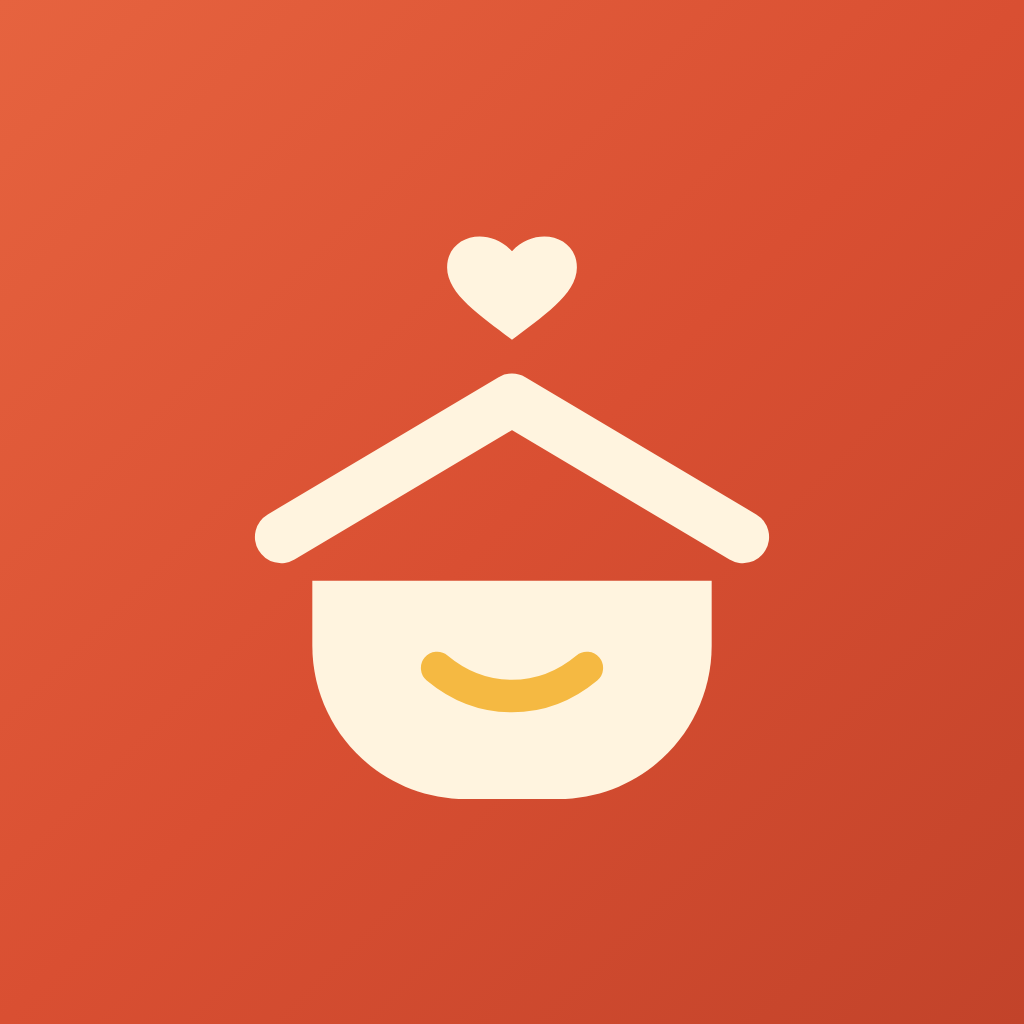
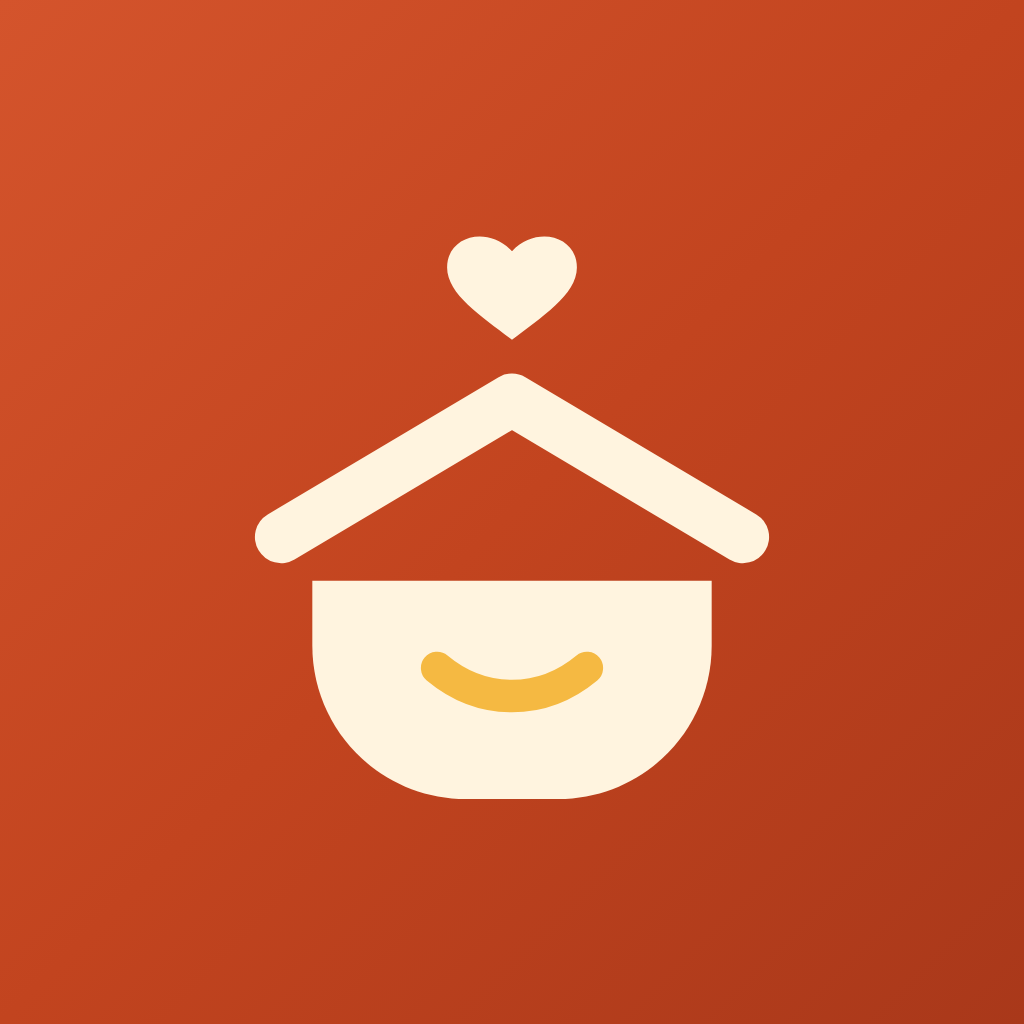
White background, deeper orange primary
Claude-Session: https://claude.ai/code/session_01BWdZgeSNgUMx6aBKecGr3i

Changed region(s): [[0.5625, 0.5625, 1.0, 1.0]]

diff --git a/app/src/theme.ts b/app/src/theme.ts
@@ -1,22 +1,21 @@
 import { Platform } from 'react-native';
 
 export const C = {
-  // Surfaces: warm cream canvas (#FFF4DF), crisp white cards, hairline borders
-  bg: '#FFF4DF', surface: '#FFFFFF', surface2: '#FBEEDA', sunken: '#F5E6CC', card: '#FFFAF2',
-  // Ink: deep warm charcoal, never pure black
-  text: '#24170F', text2: '#5A463A', muted: '#8E7A6B', line: '#F2E4CB', line2: '#E8D6B8',
+  // Surfaces: clean white canvas, white cards with hairline borders, warm grey fills
+  bg: '#FFFFFF', surface: '#FFFFFF', surface2: '#F7F3EF', sunken: '#EFE9E2', card: '#FFFFFF',
+  text: '#21160F', text2: '#584538', muted: '#8C7A6C', line: '#EEE7DF', line2: '#E2D8CC',
   // Mango: the accent — ratings, highlights, small badges. Text on it is dark.
   turmeric: '#F5B942', turmericDeep: '#D99A1E', turmericSoft: '#FDEFD0', onTurmeric: '#4A2E0A',
-  // Paprika: the MaaCrave primary — buttons, links, active states.
-  brand: '#D94F32', brand2: '#E2603F', brandHi: '#EE7A57', brandDark: '#B53E25', brandDeep: '#7F2A18', brandSoft: '#FCE4D9', brandText: '#B83F26',
+  // Deep orange (paprika): the MaaCrave primary — buttons, links, active states.
+  brand: '#C2441F', brand2: '#D0532C', brandHi: '#EE7A57', brandDark: '#A3361A', brandDeep: '#7F2A18', brandSoft: '#FBE6DC', brandText: '#A83A1C',
   ink: '#24170F', onInk: '#FFFFFF',
   ok: '#1E7F4F', okSoft: '#E8F5EE', warn: '#9A6200', warnSoft: '#FDF4E1', err: '#C62828', errSoft: '#FDECEC', info: '#2552C9', infoSoft: '#EDF2FE',
   star: '#F5B942', gold: '#F5B942',
 };
 /** Paprika — primary surfaces: buttons, the logo tile, hero banners. Text on it is white. */
-export const GLOSS = ['#E6633F', '#D94F32', '#C2432A'] as const;
+export const GLOSS = ['#D4542C', '#C2441F', '#A9381A'] as const;
 /** Deep paprika, for avatars and small solid accents that carry white text. */
-export const MAROON = ['#E06844', '#C9472C', '#A83A22'] as const;
+export const MAROON = ['#CF5129', '#B23C1C', '#922F15'] as const;
 /** Text and icons placed on paprika. */
 export const ON_GLOSS = '#FFFFFF';
 export const ON_GLOSS_SOFT = 'rgba(255,255,255,0.84)';

diff --git a/admin/styles.css b/admin/styles.css
@@ -1,10 +1,10 @@
 :root {
-  --bg: #FFF4DF; --surface: #FFFFFF; --card: #FFFAF2; --sunken: #F5E6CC;
-  --text: #24170F; --text2: #5A463A; --muted: #8E7A6B; --line: #F2E4CB; --line2: #E8D6B8;
-  --brand: #D94F32; --brand2: #E2603F; --brand-dark: #B53E25; --brand-soft: #FCE4D9; --turmeric: #F5B942; --on-turmeric: #FFFFFF;
+  --bg: #FFFFFF; --surface: #FFFFFF; --card: #FFFFFF; --sunken: #EFE9E2;
+  --text: #24170F; --text2: #5A463A; --muted: #8E7A6B; --line: #EEE7DF; --line2: #E2D8CC;
+  --brand: #C2441F; --brand2: #D0532C; --brand-dark: #A3361A; --brand-soft: #FBE6DC; --turmeric: #F5B942; --on-turmeric: #FFFFFF;
   --ok: #1E7F4F; --ok-soft: #E8F5EE; --warn: #9A6200; --warn-soft: #FDF4E1; --err: #C62828; --err-soft: #FDECEC; --info: #2552C9; --info-soft: #EDF2FE;
   --ink: #24170F;
-  --gloss: linear-gradient(135deg, #E6633F, #D94F32 50%, #C2432A);
+  --gloss: linear-gradient(135deg, #D4542C, #C2441F 50%, #A9381A);
   --shadow: 0 10px 30px -16px rgba(90, 42, 20, .2);
   --r: 16px;
   --display: 'Bricolage Grotesque', system-ui, sans-serif;
@@ -58,7 +58,7 @@ main { padding: 28px 32px 60px; max-width: 1240px; width: 100%; }
 .tab { border: 0; background: none; padding: 7px 16px; border-radius: 999px; font-weight: 600; color: var(--text2); }
 .tab.on { background: var(--ink); color: #fff; }
 .btn { border: 0; border-radius: 999px; padding: 10px 18px; font-weight: 700; display: inline-flex; align-items: center; gap: 8px; }
-.btn.primary { background: var(--gloss); color: var(--on-turmeric); box-shadow: 0 10px 20px -10px rgba(217,79,50,.5); }
+.btn.primary { background: var(--gloss); color: var(--on-turmeric); box-shadow: 0 10px 20px -10px rgba(194,68,31,.5); }
 .btn.ok { background: var(--ok); color: #fff; }
 .btn.danger { background: var(--err-soft); color: var(--err); }
 .btn.ghost { background: var(--card); color: var(--text); border: 1px solid var(--line2); }

diff --git a/app/app/_layout.tsx b/app/app/_layout.tsx
@@ -23,11 +23,11 @@ export function ErrorBoundary({ retry }: ErrorBoundaryProps) {
     <View style={{ flex: 1, alignItems: 'center', justifyContent: 'center', padding: 32, backgroundColor: '#FFFFFF', gap: 12 }}>
       <Text style={{ fontSize: 22, fontWeight: '800', color: '#1D1617', textAlign: 'center' }}>Something went wrong</Text>
       <Text style={{ fontSize: 15, color: '#5C5253', textAlign: 'center' }}>কিছু একটা সমস্যা হয়েছে। আবার চেষ্টা করুন।</Text>
-      <Pressable onPress={() => retry()} style={{ marginTop: 8, backgroundColor: '#D94F32', borderRadius: 999, paddingHorizontal: 28, paddingVertical: 14 }}>
+      <Pressable onPress={() => retry()} style={{ marginTop: 8, backgroundColor: '#C2441F', borderRadius: 999, paddingHorizontal: 28, paddingVertical: 14 }}>
         <Text style={{ color: '#FFFFFF', fontWeight: '700', fontSize: 15 }}>Try again · আবার চেষ্টা</Text>
       </Pressable>
       <Pressable onPress={() => { router.replace('/'); retry(); }} style={{ padding: 10 }}>
-        <Text style={{ color: '#D94F32', fontWeight: '600' }}>Go home · হোমে যান</Text>
+        <Text style={{ color: '#C2441F', fontWeight: '600' }}>Go home · হোমে যান</Text>
       </Pressable>
     </View>
   );

diff --git a/app/app/(tabs)/index.tsx b/app/app/(tabs)/index.tsx
@@ -84,7 +84,7 @@ export default function Home() {
       <Row gap={S.md} style={{ marginTop: S.md, alignItems: 'stretch' }}>
         {/* Order now: white card with a fine mango-to-paprika outline */}
         <Tap onPress={() => router.push('/browse')} scale={0.97} style={{ flex: 1, borderRadius: R.xl, ...(shadow as object) }}>
-          <LinearGradient colors={['#F5B942', '#FCE4D9', '#D94F32']} start={{ x: 0, y: 0 }} end={{ x: 1, y: 1 }} style={{ flex: 1, borderRadius: R.xl, padding: 1 }}>
+          <LinearGradient colors={['#F5B942', '#FBE6DC', '#C2441F']} start={{ x: 0, y: 0 }} end={{ x: 1, y: 1 }} style={{ flex: 1, borderRadius: R.xl, padding: 1 }}>
             <View style={{ flex: 1, borderRadius: R.xl - 1, backgroundColor: '#fff', padding: S.md, gap: S.sm }}>
               <View style={{ width: 40, height: 40, borderRadius: 20, backgroundColor: C.brandSoft, alignItems: 'center', justifyContent: 'center' }}><UtensilsCrossed size={19} color={C.brand} /></View>
               <View><T v="card" style={{ fontSize: 15 }}>Order now</T><T v="meta" numberOfLines={2}>Ready dishes cooking today</T></View>

diff --git a/app/app/+html.tsx b/app/app/+html.tsx
@@ -11,11 +11,11 @@ export default function Root({ children }: PropsWithChildren) {
         <meta name="viewport" content="width=device-width, initial-scale=1, viewport-fit=cover" />
         <title>MaaCrave — Homemade food from verified mothers</title>
         <meta name="description" content="Order fresh homemade meals from verified home cooks in Dhaka. Request any dish, join group orders and pay with bKash, card or cash." />
-        <meta name="theme-color" content="#FFF4DF" />
+        <meta name="theme-color" content="#FFFFFF" />
         <meta property="og:title" content="MaaCrave — Homemade food from verified mothers" />
         <meta property="og:description" content="Fresh home cooking from verified mothers near you in Dhaka." />
         <ScrollViewStyleReset />
-        <style dangerouslySetInnerHTML={{ __html: 'html,body{background:#FFF4DF;-webkit-font-smoothing:antialiased}' }} />
+        <style dangerouslySetInnerHTML={{ __html: 'html,body{background:#FFFFFF;-webkit-font-smoothing:antialiased}' }} />
       </head>
       <body>{children}</body>
     </html>

diff --git a/app/app/festival/[id].tsx b/app/app/festival/[id].tsx
@@ -28,7 +28,7 @@ export default function FestivalScreen() {
       {q.isLoading ? <Loading /> : q.error || !f ? <ErrorState error={q.error} onRetry={q.refetch} /> : (
         <View style={{ gap: S.lg, marginTop: S.sm, marginBottom: S.lg }}>
           <View style={{ borderRadius: R.xl, overflow: 'hidden', backgroundColor: C.surface, borderWidth: 1, borderColor: C.line }}>
-            <LinearGradient colors={['#F5B942', '#D94F32']} start={{ x: 0, y: 0 }} end={{ x: 1, y: 0 }} style={{ height: 3 }} />
+            <LinearGradient colors={['#F5B942', '#C2441F']} start={{ x: 0, y: 0 }} end={{ x: 1, y: 0 }} style={{ height: 3 }} />
             <View pointerEvents="none" style={{ position: 'absolute', right: -70, top: -70, width: 210, height: 210, borderRadius: 105, backgroundColor: C.turmericSoft }} />
             <View style={{ padding: S.xl, gap: S.md, alignItems: 'center' }}>
               <View style={{ width: 52, height: 52, borderRadius: 26, backgroundColor: C.brandSoft, alignItems: 'center', justifyContent: 'center' }}><PartyPopper size={24} color={C.brand} /></View>

diff --git a/app/src/ui/maa.tsx b/app/src/ui/maa.tsx
@@ -97,7 +97,7 @@ export function MotherOfWeek({ c }: { c: NonNullable<HomeData['featured']> }) {
   return (
     <Tap onPress={() => router.push(`/cook/${c.id}`)} scale={0.99} style={{ borderRadius: R.xl, backgroundColor: C.surface, borderWidth: 1, borderColor: C.line, overflow: 'hidden', ...(shadow as object) }}>
       {/* fine mango-to-paprika line along the top */}
-      <LinearGradient colors={['#F5B942', '#D94F32']} start={{ x: 0, y: 0 }} end={{ x: 1, y: 0 }} style={{ height: 3 }} />
+      <LinearGradient colors={['#F5B942', '#C2441F']} start={{ x: 0, y: 0 }} end={{ x: 1, y: 0 }} style={{ height: 3 }} />
       <View style={{ padding: S.lg, gap: S.lg }}>
         <Row style={{ justifyContent: 'space-between' }}>
           <Row gap={6}><Star size={13} color={C.turmeric} fill={C.turmeric} /><Eyebrow>{t('Mother of the week', 'এই সপ্তাহের মা')}</Eyebrow></Row>

diff --git a/app/src/ui/spotlight.tsx b/app/src/ui/spotlight.tsx
@@ -20,7 +20,7 @@ const ICONS: Record<string, LucideIcon> = {
   users: Users, gift: Gift, heart: Heart, utensils: UtensilsCrossed, request: MessageSquarePlus, percent: Percent, coffee: Coffee,
 };
 const THEMES: Record<string, readonly [string, string, string]> = {
-  crimson: ['#E6633F', '#D94F32', '#B53E25'],
+  crimson: ['#D4542C', '#C2441F', '#A3361A'],
   saffron: ['#F4A12E', '#E07B12', '#B85A07'],
   forest: ['#3BA06A', '#1E7F4F', '#145C38'],
   night: ['#3A2A4F', '#261B36', '#16101F'],
@@ -78,7 +78,7 @@ function Scene({ kind, Icon, color, size }: { kind: string; Icon: LucideIcon; co
   );
 }
 
-const FRAME = '#D94F32';
+const FRAME = '#C2441F';
 
 /** Gentle zoom-and-drift on the picture (the "Ken Burns" effect). */
 function Drift({ children }: { children: React.ReactNode }) {

diff --git a/app/app/cook/[id].tsx b/app/app/cook/[id].tsx
@@ -35,7 +35,7 @@ export default function CookScreen() {
         <>
           {/* hero: clean white card, her portrait in a mango ring */}
           <View style={{ marginTop: S.sm, borderRadius: R.xl, backgroundColor: C.surface, borderWidth: 1, borderColor: C.line, overflow: 'hidden', ...(shadow as object) }}>
-            <LinearGradient colors={['#F5B942', '#D94F32']} start={{ x: 0, y: 0 }} end={{ x: 1, y: 0 }} style={{ height: 3 }} />
+            <LinearGradient colors={['#F5B942', '#C2441F']} start={{ x: 0, y: 0 }} end={{ x: 1, y: 0 }} style={{ height: 3 }} />
             <View style={{ padding: S.lg, gap: S.md, alignItems: 'center' }}>
               <MotherPhoto c={c} size={92} />
               <View style={{ alignItems: 'center', gap: 4 }}>

diff --git a/app/src/ui/intro.tsx b/app/src/ui/intro.tsx
@@ -4,7 +4,7 @@ import { Animated, Easing, Platform, StyleSheet, Text, View } from 'react-native
 import { C, F, GLOSS, ON_GLOSS } from '../theme';
 import { Logo } from './logo';
 
-/** Paprika launch screen (matches the native splash colour #D94F32). */
+/** Paprika launch screen (matches the native splash colour #C2441F). */
 const INTRO = GLOSS;
 /** Never keep people on the intro longer than this, even if the server is slow to wake up. */
 const MAX_MS = 4500;
